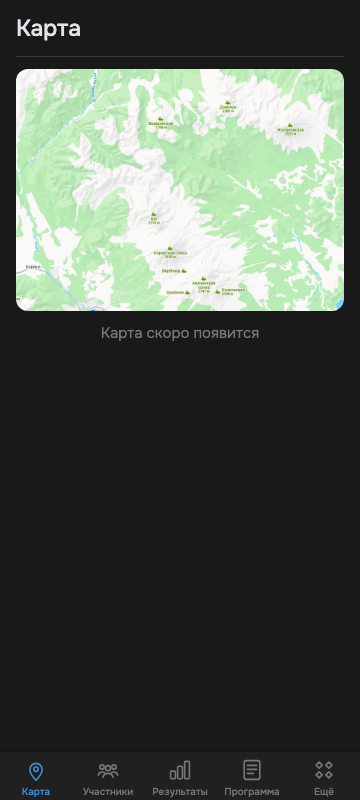
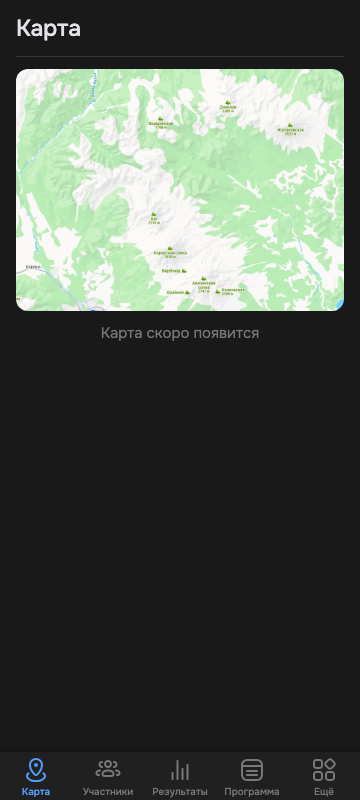
fix(v2): иконки таббара и меню Ещё из макета

diff --git a/src/components/AppTabbar.tsx b/src/components/AppTabbar.tsx
@@ -9,13 +9,7 @@ import {
   VIEW_PARTICIPANTS,
   VIEW_RESULTS,
 } from '../routes.ts'
-import {
-  TabIconBars,
-  TabIconMap,
-  TabIconMore,
-  TabIconPeople,
-  TabIconProgram,
-} from './tabIcons.tsx'
+import { TabbarIcon, type TabbarIconId } from './TabbarIcon.tsx'
 
 type AppTabbarProps = {
   activeView?: string
@@ -25,25 +19,29 @@ type AppTabbarProps = {
   onCloseMoreMenu: () => void
 }
 
-const tabs = [
-  { id: 'map', view: VIEW_MAP, path: PATH.map, label: 'Карта', icon: TabIconMap },
+const tabs: (
+  | { id: 'map' | 'participants' | 'results'; view: string; path: string; label: string; icon: TabbarIconId }
+  | { id: 'program'; view: string; path: string; label: string; icon: TabbarIconId }
+  | { id: 'more'; label: string; icon: TabbarIconId }
+)[] = [
+  { id: 'map', view: VIEW_MAP, path: PATH.map, label: 'Карта', icon: 'map' },
   {
     id: 'participants',
     view: VIEW_PARTICIPANTS,
     path: PATH.participants,
     label: 'Участники',
-    icon: TabIconPeople,
+    icon: 'participants',
   },
-  { id: 'results', view: VIEW_RESULTS, path: PATH.results, label: 'Результаты', icon: TabIconBars },
+  { id: 'results', view: VIEW_RESULTS, path: PATH.results, label: 'Результаты', icon: 'results' },
   {
     id: 'program',
     view: VIEW_MORE,
     path: PATH.program,
     label: 'Программа',
-    icon: TabIconProgram,
+    icon: 'program',
   },
-  { id: 'more', label: 'Ещё', icon: TabIconMore },
-] as const
+  { id: 'more', label: 'Ещё', icon: 'more' },
+]
 
 function tabSelected(
   tab: (typeof tabs)[number],
@@ -79,29 +77,25 @@ export function AppTabbar({
 
   return (
     <Tabbar className="app-tabbar" mode="vertical">
-      {tabs.map((tab) => {
-        const Icon = tab.icon
-
-        return (
-          <TabbarItem
-            key={tab.id}
-            selected={tabSelected(tab, activeView, activePanel, moreMenuOpen)}
-            label={tab.label}
-            onClick={() => {
-              if (tab.id === 'more') {
-                onOpenMoreMenu()
-                return
-              }
-              onCloseMoreMenu()
-              if ('path' in tab) {
-                void routeNavigator.replace(tab.path)
-              }
-            }}
-          >
-            <Icon className="app-tabbar__icon" />
-          </TabbarItem>
-        )
-      })}
+      {tabs.map((tab) => (
+        <TabbarItem
+          key={tab.id}
+          selected={tabSelected(tab, activeView, activePanel, moreMenuOpen)}
+          label={tab.label}
+          onClick={() => {
+            if (tab.id === 'more') {
+              onOpenMoreMenu()
+              return
+            }
+            onCloseMoreMenu()
+            if ('path' in tab) {
+              void routeNavigator.replace(tab.path)
+            }
+          }}
+        >
+          <TabbarIcon id={tab.icon} />
+        </TabbarItem>
+      ))}
     </Tabbar>
   )
 }

diff --git a/src/components/TabbarIcon.tsx b/src/components/TabbarIcon.tsx
@@ -1,0 +1,29 @@
+import mapSvg from '../assets/icons/tabbar/map.svg?raw'
+import moreSvg from '../assets/icons/tabbar/more.svg?raw'
+import participantsSvg from '../assets/icons/tabbar/participants.svg?raw'
+import programSvg from '../assets/icons/tabbar/program.svg?raw'
+import resultsSvg from '../assets/icons/tabbar/results.svg?raw'
+
+export type TabbarIconId = 'map' | 'participants' | 'results' | 'program' | 'more'
+
+const icons: Record<TabbarIconId, string> = {
+  map: mapSvg,
+  participants: participantsSvg,
+  results: resultsSvg,
+  program: programSvg,
+  more: moreSvg,
+}
+
+type TabbarIconProps = {
+  id: TabbarIconId
+}
+
+export function TabbarIcon({ id }: TabbarIconProps) {
+  return (
+    <span
+      className="app-tabbar__icon"
+      aria-hidden
+      dangerouslySetInnerHTML={{ __html: icons[id] }}
+    />
+  )
+}

diff --git a/src/index.css b/src/index.css
@@ -638,22 +638,27 @@ body {
 }
 
 .app-tabbar__icon {
-  display: block;
+  display: flex;
+  align-items: center;
+  justify-content: center;
   width: 28px;
   height: 28px;
   flex: none;
+}
+
+.app-tabbar__icon svg {
+  display: block;
+  width: 28px;
+  height: 28px;
 }
 
 .app-tabbar .vkuiTabbarItem__icon {
   color: var(--vkui--color_icon_secondary);
 }
 
-.app-tabbar .vkuiTabbarItem__selected .vkuiTabbarItem__icon {
-  color: var(--vkui--color_icon_accent_themed);
-}
-
+.app-tabbar .vkuiTabbarItem__selected .vkuiTabbarItem__icon,
 .app-tabbar .vkuiTabbarItem__selected .vkuiTabbarItem__label {
-  color: var(--vkui--color_text_accent_themed, var(--vkui--color_icon_accent_themed));
+  color: var(--vkui--color_icon_accent);
 }
 
 .more-menu-sheet {
